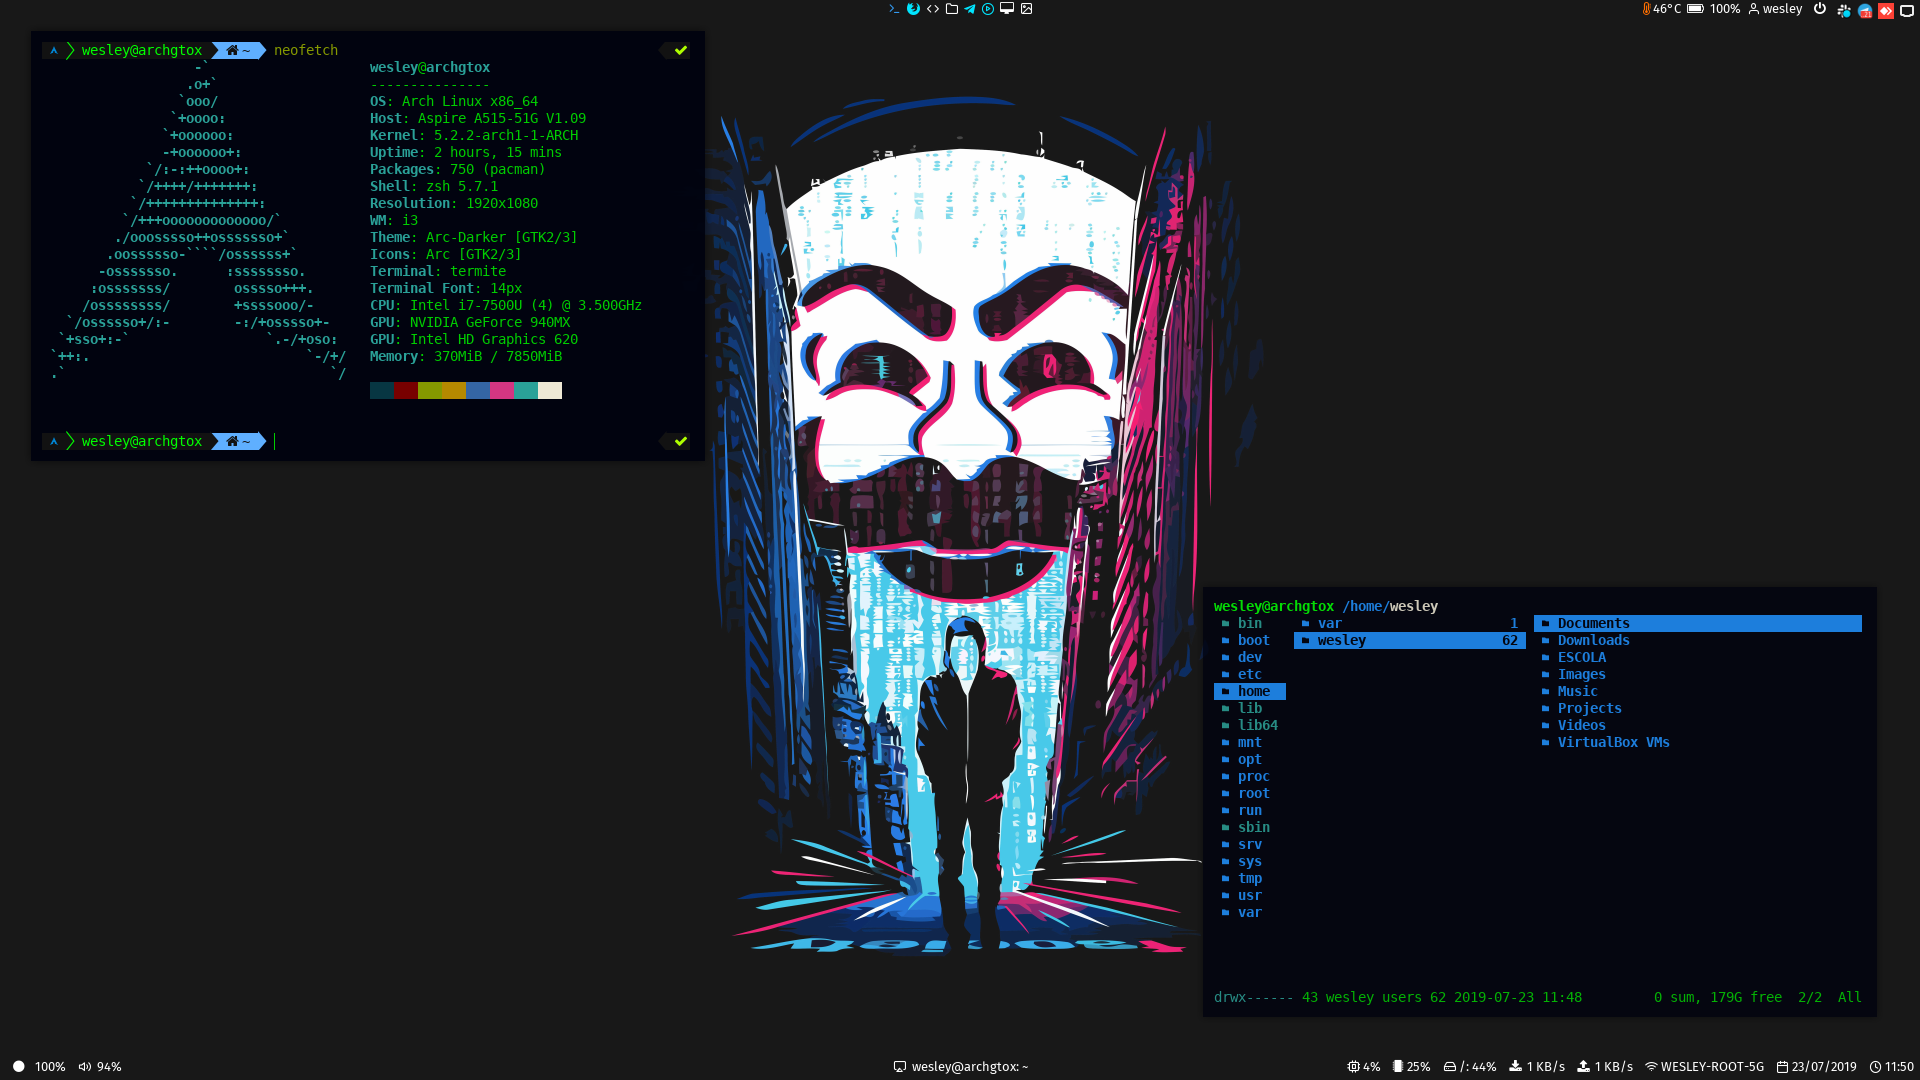
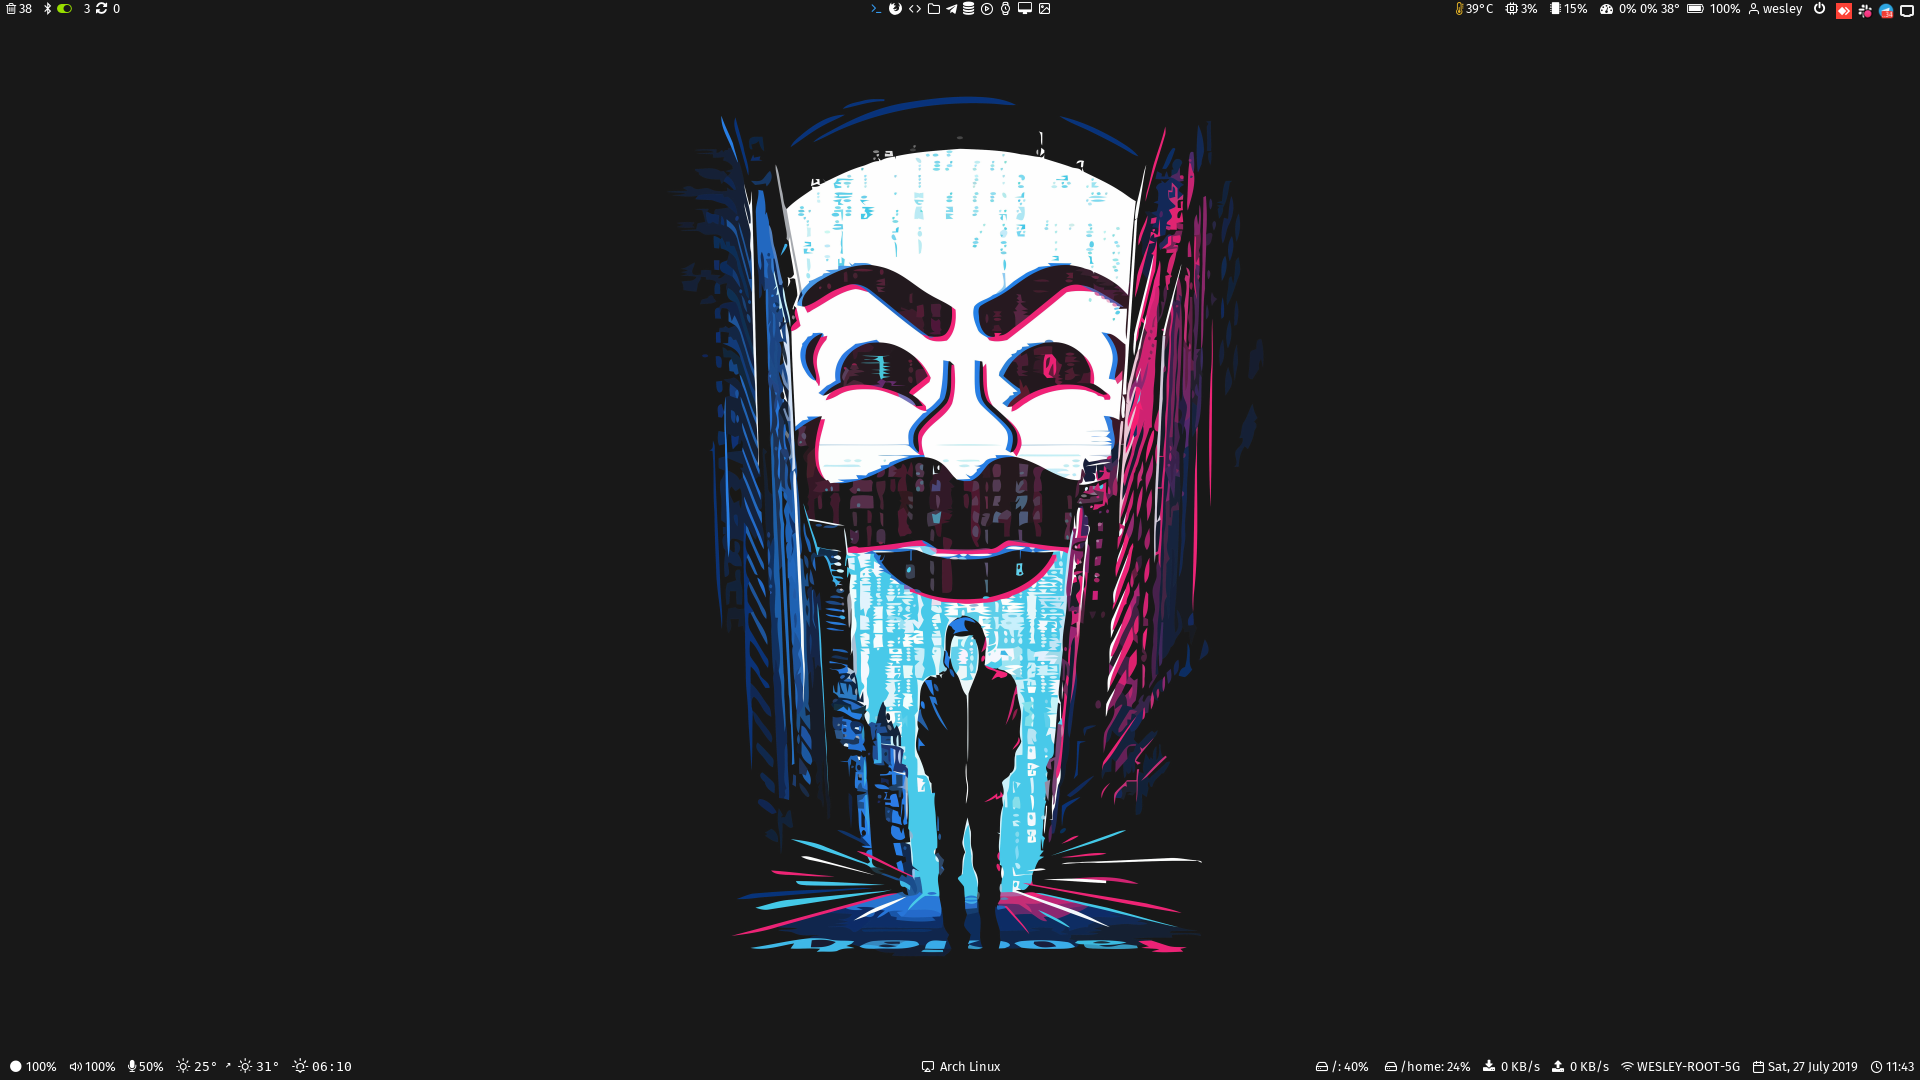
Adding new screenshot and update README

diff --git a/README.md b/README.md
@@ -34,12 +34,15 @@ My personal dotfiles from my notebook.
 
 ## Preview
 
-- **Termite, Zsh, Ranger**  
-![screenshot01](https://raw.githubusercontent.com/WesGtoX/dotfiles/master/screenshot/screenshot01.png)  
+- **i3-gaps**  
+![screenshot01](https://raw.githubusercontent.com/WesGtoX/dotfiles/master/screenshot/screenshot01.png)
+![screenshot02](https://raw.githubusercontent.com/WesGtoX/dotfiles/master/screenshot/screenshot02.png)
+
+- **Termite, Zsh, Ranger, Dunst**  
+![screenshot03](https://raw.githubusercontent.com/WesGtoX/dotfiles/master/screenshot/screenshot03.png)
 
 - **Rofi**  
-![screenshot02](https://raw.githubusercontent.com/WesGtoX/dotfiles/master/screenshot/screenshot02.png)  
-
+![screenshot04](https://raw.githubusercontent.com/WesGtoX/dotfiles/master/screenshot/screenshot04.png)
 
 ## License
 
